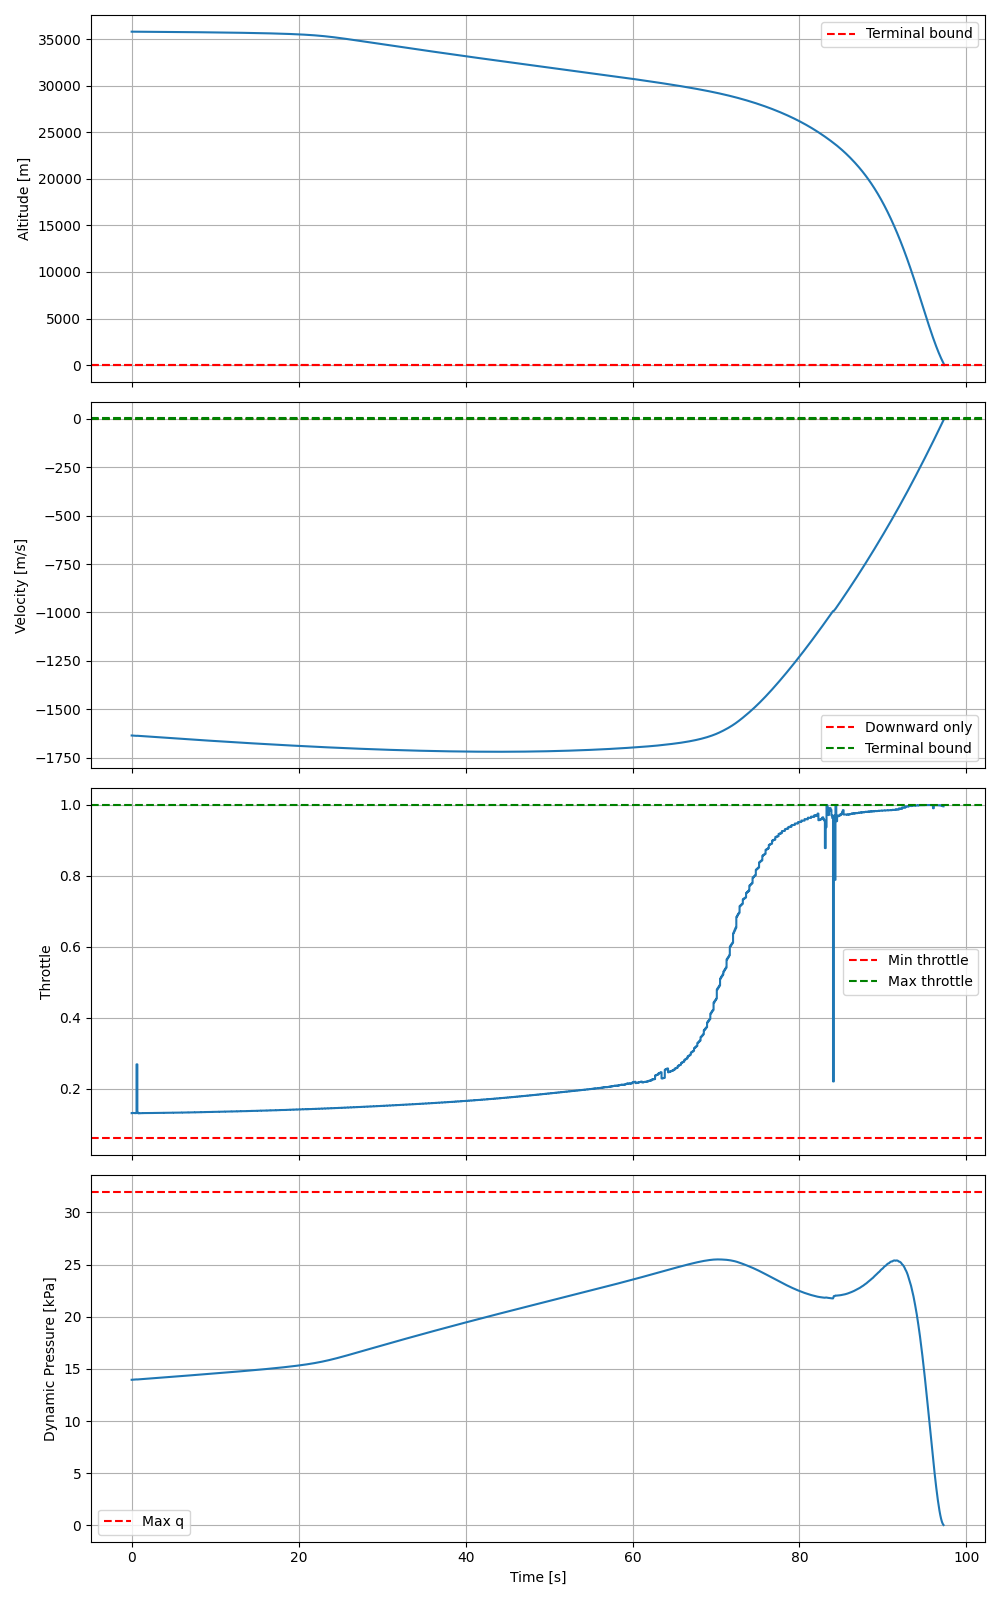
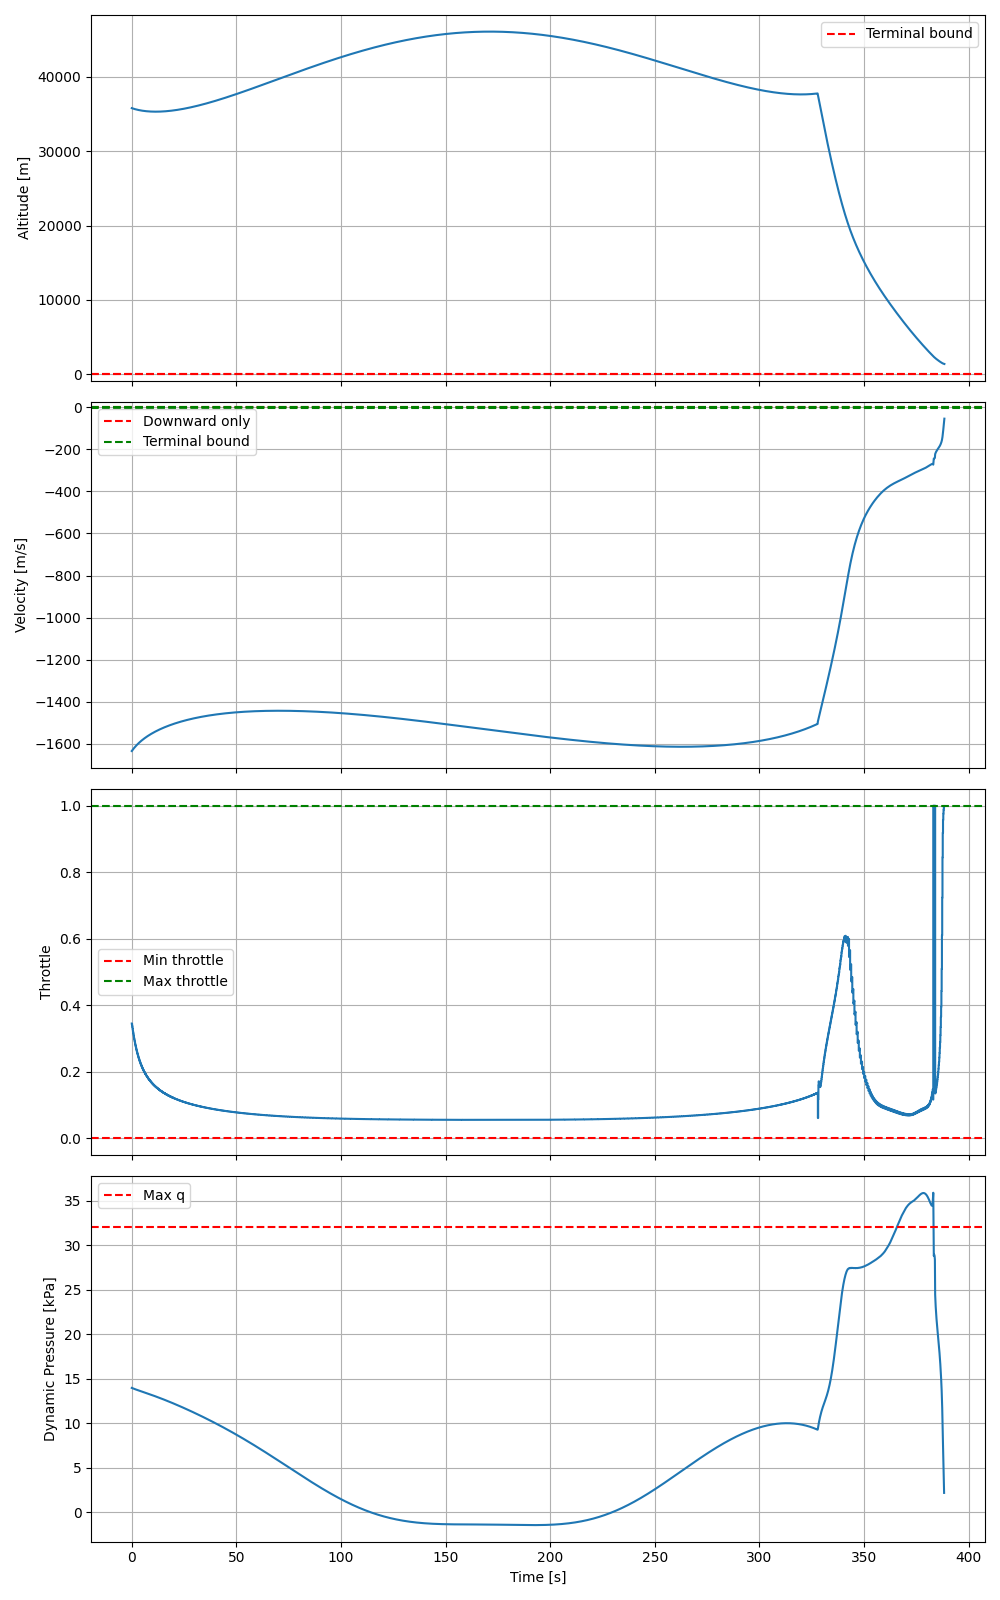
nearly there

diff --git a/casadi_landing_burn.py b/casadi_landing_burn.py
@@ -20,7 +20,7 @@ from src.envs.utils.atmosphere_dynamics import endo_atmospheric_model
 state_initial = load_landing_burn_initial_state()
 y_0 = state_initial[1]
 v_0 = state_initial[3]   # negative = downward
-m_0 = state_initial[8]   +200_000# structural; add propellant if desired
+m_0 = state_initial[8]   # structural; add propellant if desired
 
 print(f'Initial mass: {m_0:.1f} kg, v0: {v_0:.1f} m/s, y0: {y_0:.1f} m')
 
@@ -43,11 +43,11 @@ m_s = float(sizing_results['Structural mass stage 1 (descent)']) * 1_000
 print(f'Initial propellant mass: {m_0 - m_s:.1f} kg')
 number_of_engines_min = 3
 minimum_engine_throttle = 0.4
-tau_min = (
-    number_of_engines_min * minimum_engine_throttle
-) / int(sizing_results['Number of engines gimballed stage 1'])
-assert 0 < tau_min < 1, 'tau_min outside (0,1). Check sizing results.'
-
+#tau_min = (
+#    number_of_engines_min * minimum_engine_throttle
+#) / int(sizing_results['Number of engines gimballed stage 1'])
+#assert 0 < tau_min < 1, 'tau_min outside (0,1). Check sizing results.'
+tau_min = 0.0
 # -----------------------------------------------------------------------------
 # CONSTANTS
 # -----------------------------------------------------------------------------
@@ -83,7 +83,7 @@ def rho_fun(h):
 # -----------------------------------------------------------------------------
 # OPTIMISATION SET‑UP (multiple shooting)
 # -----------------------------------------------------------------------------
-N = 1_000                      # mesh segments
+N = 3000                      # mesh segments
 opti = ca.Opti()
 
 # Scaled decision variables
@@ -119,12 +119,12 @@ opti.subject_to(t_hatf * 50 >= 50.0)
 for k in range(N):
     y_k = y_hat[k] * 40_000
     v_k = v_hat[k] * 1_700
-    m_k = m_hat[k] * 7e5 + m_s
+    m_k = m_hat[k] * 9e6
     
     q_k = 0.5 * rho_fun(y_k) * v_k ** 2
     a_k = T / m_k * tau[k] - g_0 + q_k * C_n_0 * S_grid_fins * n_gf / m_k
 
-    opti.subject_to(y_hat[k + 1] == y_hat[k] + dt * v_hat[k] / 40_000)
+    opti.subject_to(y_hat[k + 1] == y_hat[k] + dt * v_hat[k] * 1_700 / 40_000)
     opti.subject_to(v_hat[k + 1] == v_hat[k] + dt * a_k / 1_700)
     opti.subject_to(m_hat[k + 1] == m_hat[k] - dt * mdot * tau[k] / 7e5)
 
@@ -165,10 +165,10 @@ s_opts = {
     "mumps_mem_percent": 3000,
     "hessian_approximation": "limited-memory",
     "max_iter":          1500,
-    "tol":               1e-6,
+    "tol":               1e-3,
     "warm_start_init_point": "yes",
-    "print_level":       4,
-    "print_frequency_iter": 10,        # Print every 10 iterations
+    "print_level":       5,
+    "print_frequency_iter": 5,        # Print every 10 iterations
     "print_timing_statistics": "yes",  # Show timing information
     "print_user_options": "yes"        # Show user options
 }
